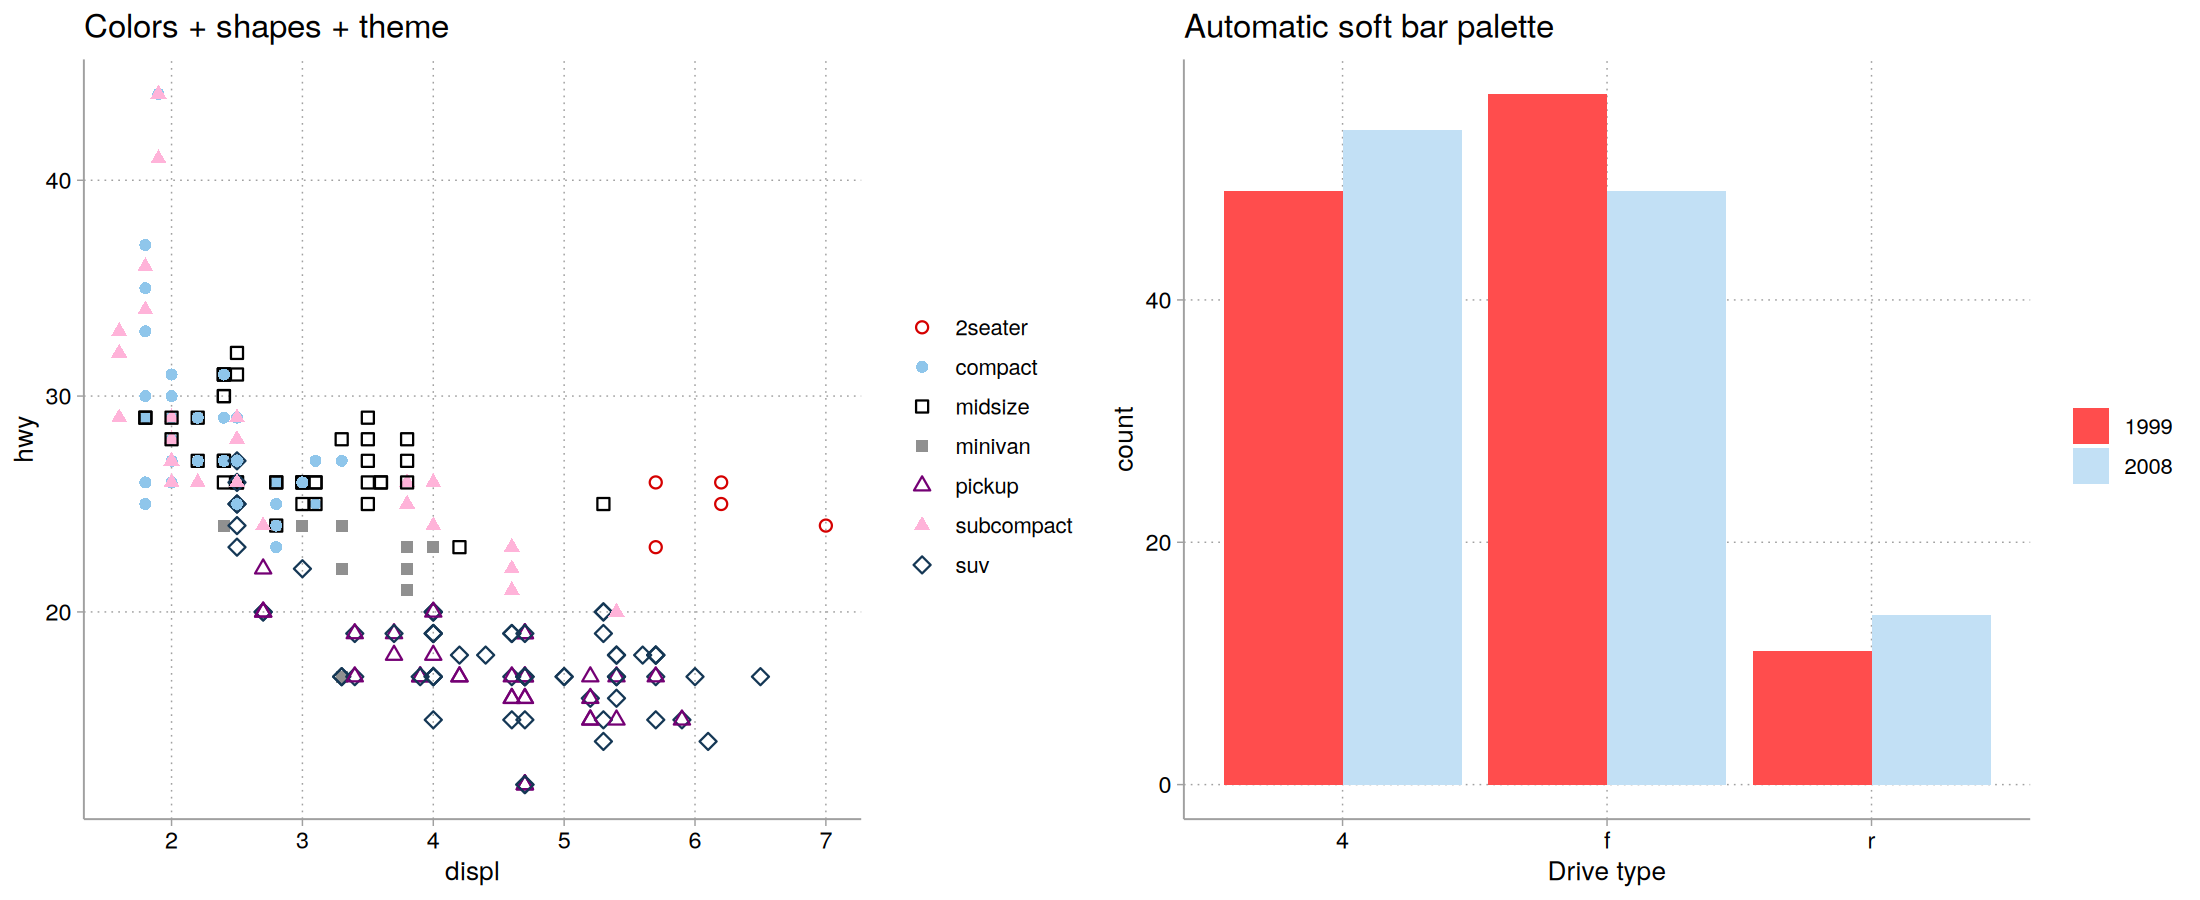
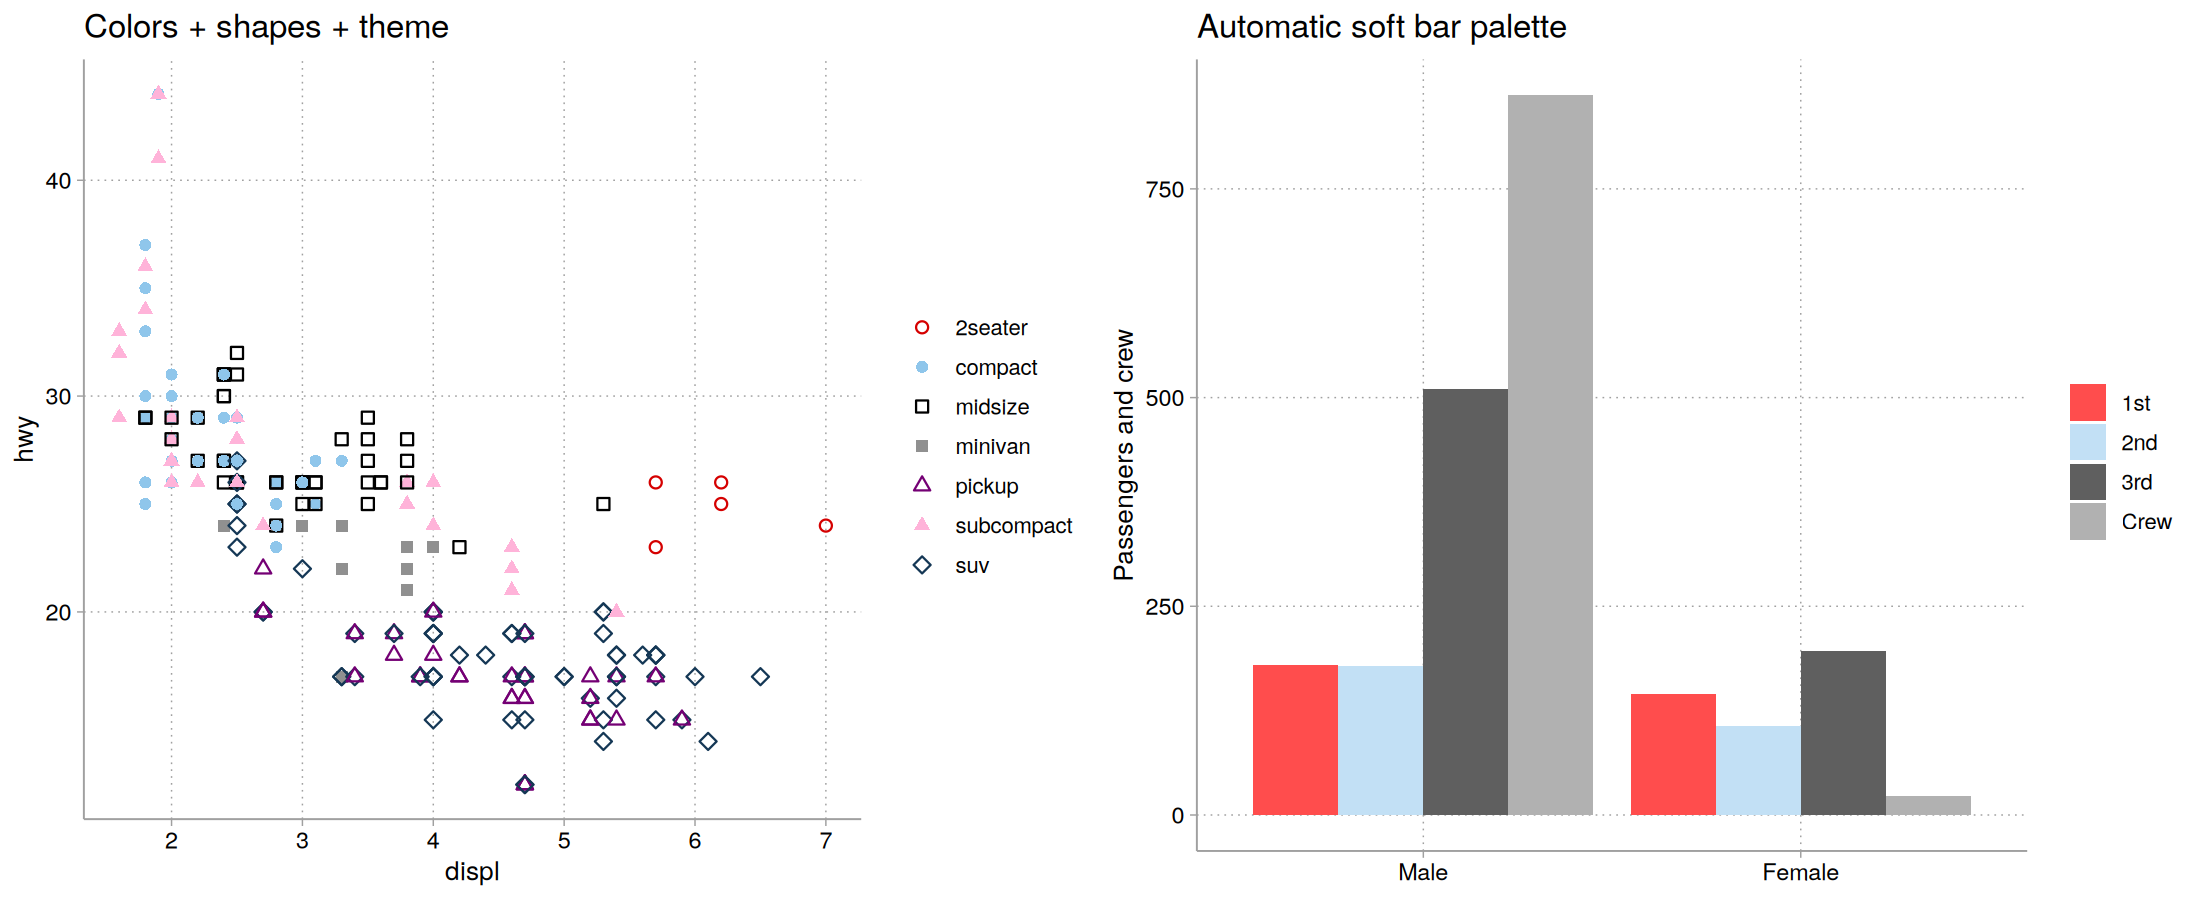
v0.2.0: cleanplots_save(), base size 12, 3 o'clock legend, density/function line widths, reframed docs, saving + marginaleffects vignette sections

Changed region(s): [[0.4945, 0.0933, 0.9273, 0.9956], [0.9273, 0.4044, 0.9891, 0.6222], [0.5255, 0.0, 0.7109, 0.0622]]

diff --git a/README.md b/README.md
@@ -55,8 +55,9 @@ ggplot(iris, aes(x = Sepal.Length, y = Sepal.Width, color = Species)) +
   scale_color_cleanplots()
 
 # Bar charts use the softer bar/area palette
-ggplot(mpg, aes(drv, fill = factor(year))) +
-  geom_bar(position = "dodge") +
+titanic <- aggregate(Freq ~ Class + Sex, data = as.data.frame(Titanic), sum)
+ggplot(titanic, aes(Sex, Freq, fill = Class)) +
+  geom_col(position = "dodge") +
   theme_cleanplots() +
   scale_fill_cleanplots(palette = "bars")
 